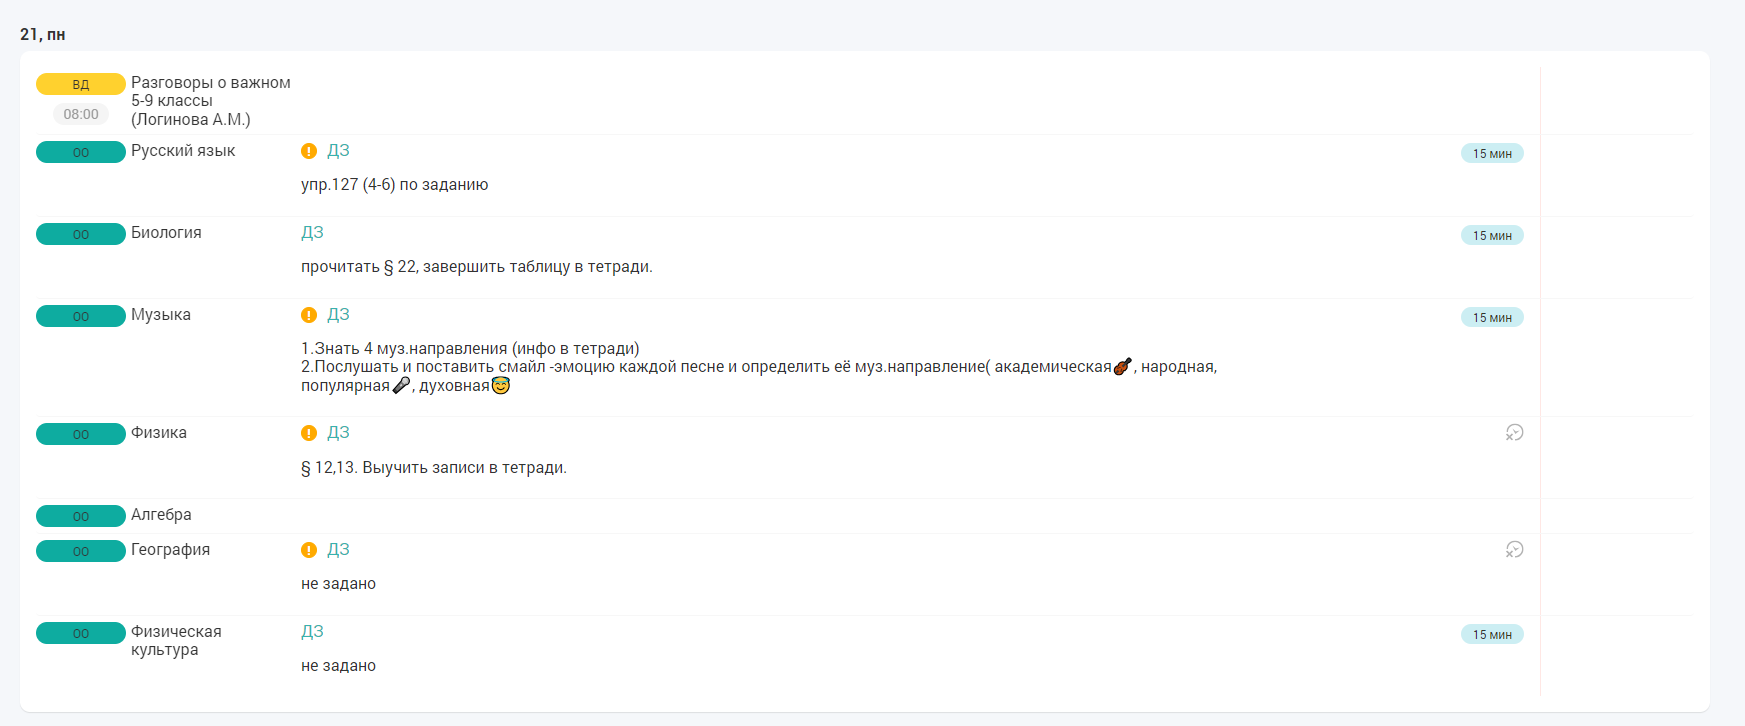
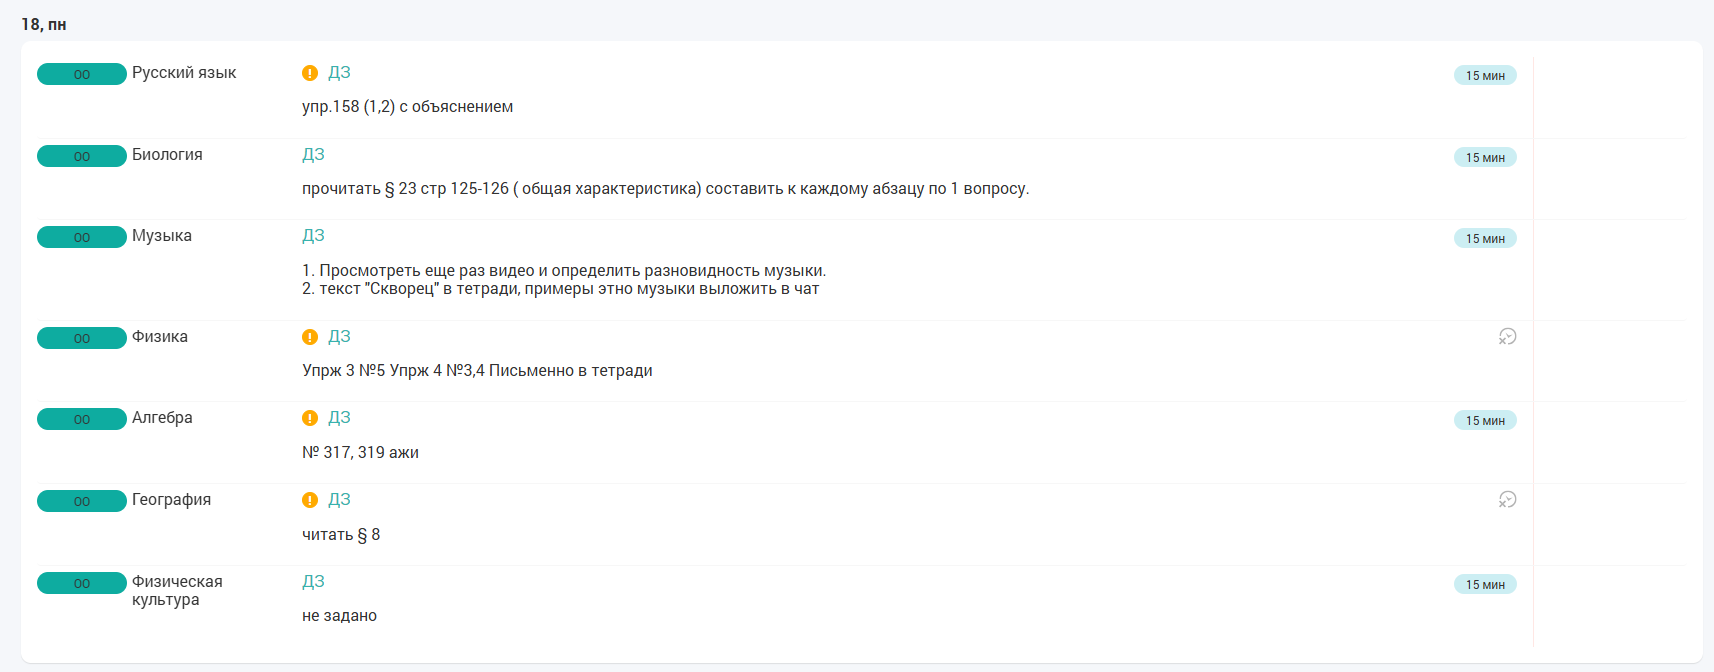
на 17

diff --git a/index.html b/index.html
@@ -8,8 +8,8 @@
   <div class="div">
     <h1 style="text-align: center;">Реклама моей новой игры:</h1>
     <p style="text-align: center;"><iframe frameborder="0" src="https://itch.io/embed/3069259?bg_color=ff2a62&amp;fg_color=ffffff&amp;link_color=ffffff&amp;border_color=ff2626" width="552" height="167"><a href="https://olane.itch.io/winterclicker"></iframe></a></p>
-    <h1 class="Text1"> ДЗ на 11 Ноября</h1>
-    <p class="Дз"><img src="Images/ДЗ.jpg" width="930" height="480"></img></p>
+    <h1 class="Text1"> ДЗ на 17 Ноября</h1>
+    <p class="Дз"><img src="Images/ДЗ.png" width="930" height="480"></img></p>
     <p class="Дз"><img src="Images/" width="930" height="480"></img></p>
     <p class="Расписание"><img src="Images/" width="1280" height="720"></img></p>
   </div>
